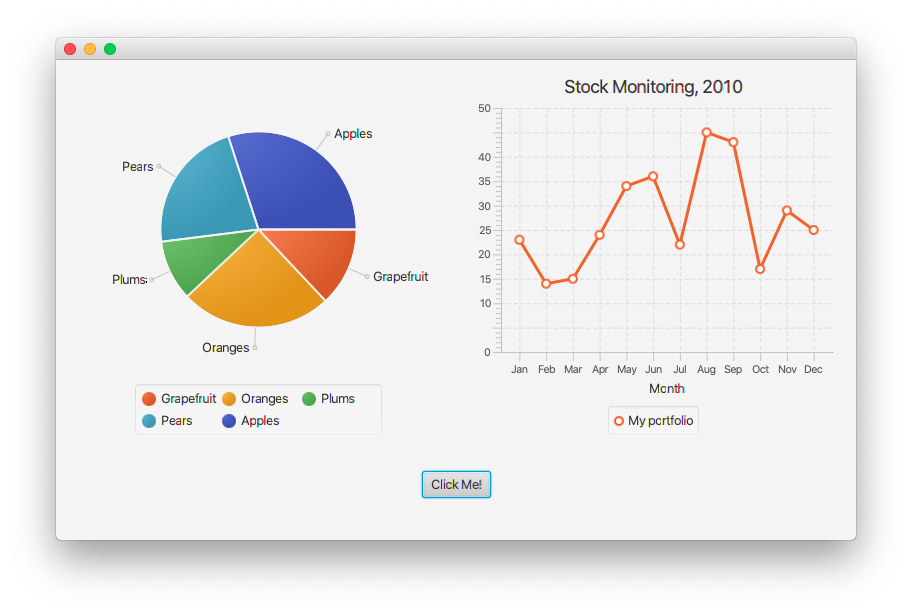
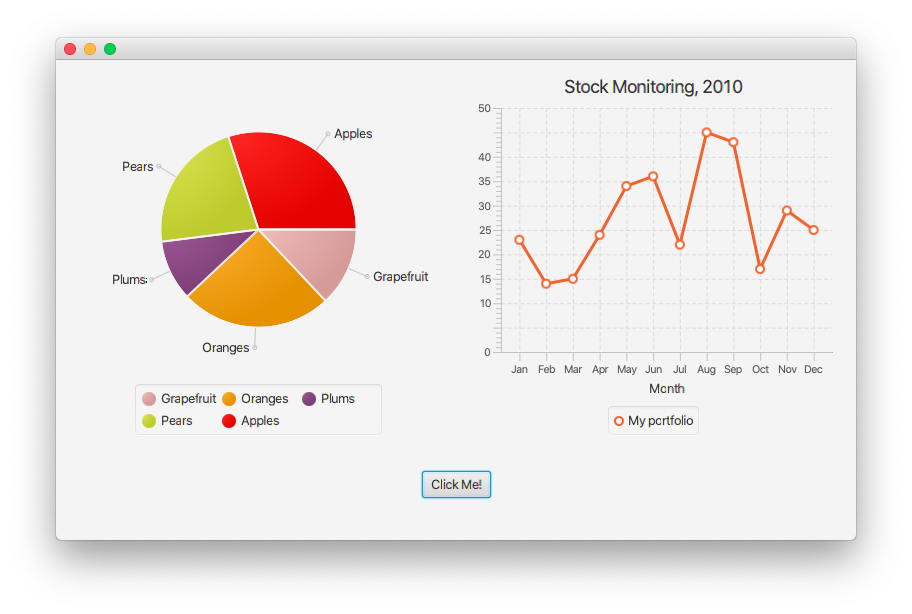
[feat] Colours on Pie Chart

Changed region(s): [[0.1535, 0.2166, 0.3991, 0.4951], [0.1535, 0.6189, 0.1842, 0.7117], [0.2456, 0.6808, 0.2763, 0.7117]]

diff --git a/ChartsDemo/src/chartsdemo/FXMLDocumentController.java b/ChartsDemo/src/chartsdemo/FXMLDocumentController.java
@@ -5,6 +5,7 @@
  */
 package chartsdemo;
 
+import com.sun.javafx.charts.Legend;
 import java.net.URL;
 import java.util.ResourceBundle;
 import javafx.collections.FXCollections;
@@ -12,12 +13,11 @@ import javafx.collections.ObservableList;
 import javafx.event.ActionEvent;
 import javafx.fxml.FXML;
 import javafx.fxml.Initializable;
+import javafx.scene.Node;
 import javafx.scene.chart.CategoryAxis;
 import javafx.scene.chart.LineChart;
-import javafx.scene.chart.NumberAxis;
 import javafx.scene.chart.PieChart;
 import javafx.scene.chart.XYChart;
-import javafx.scene.control.Label;
 
 /**
  *
@@ -45,18 +45,43 @@ public class FXMLDocumentController implements Initializable {
                 new PieChart.Data("Apples", 30)
         );
         myPieChart.setData(pieChartData);
-        
+
+        // customise pie colours
+        // adapted from: https://stackoverflow.com/questions/15219334/javafx-change-piechart-color
+        // and from: https://stackoverflow.com/questions/44956955/javafx-use-chart-legend-to-toggle-show-hide-series-possible
+        String[] pieColors = {"#edadaa", "#ffa500", "#8e4585", "#d1e231", "#ff0800"};
+        int i = 0;
+        for (PieChart.Data data : pieChartData) {
+            data.getNode().setStyle(
+                    "-fx-pie-color: " + pieColors[i % pieColors.length] + ";"
+            );
+            i++;
+        }
+        i = 0;
+        for (Node n : myPieChart.getChildrenUnmodifiable()) {
+            if (n instanceof Legend) {
+                Legend l = (Legend) n;
+                for (Legend.LegendItem li : l.getItems()) {
+                    Node thisNode = li.getSymbol();
+                    thisNode.setStyle(
+                            "-fx-pie-color: " + pieColors[i % pieColors.length] + ";"
+                    );
+                    i++;
+                }
+            }
+        }
+
         // populate line chart
         // adapted from: https://docs.oracle.com/javafx/2/charts/line-chart.htm
         myLineChart.setTitle("Stock Monitoring, 2010");
-        
+
         CategoryAxis xAxis = (CategoryAxis) myLineChart.getXAxis();
         ObservableList<String> categories = FXCollections.observableArrayList(
                 "Jan", "Feb", "Mar", "Apr", "May", "Jun",
                 "Jul", "Aug", "Sep", "Oct", "Nov", "Dec"
         );
         xAxis.setCategories(categories);
-        
+
         XYChart.Series series = new XYChart.Series();
         series.setName("My portfolio");
         series.getData().add(new XYChart.Data("Jan", 23));

diff --git a/README.md b/README.md
@@ -8,3 +8,4 @@ Also features a Charts Demo for my dear friends struggling to implement JavaFX c
 ![Charts Demo](docs/ChartsDemo.png)
 
 Based on the Oracle docs referenced in the code :)
+It even has customised colours based on the natural colours of the fruits lol. How did I do that? By adapting other public sources ... see the codebase :)
